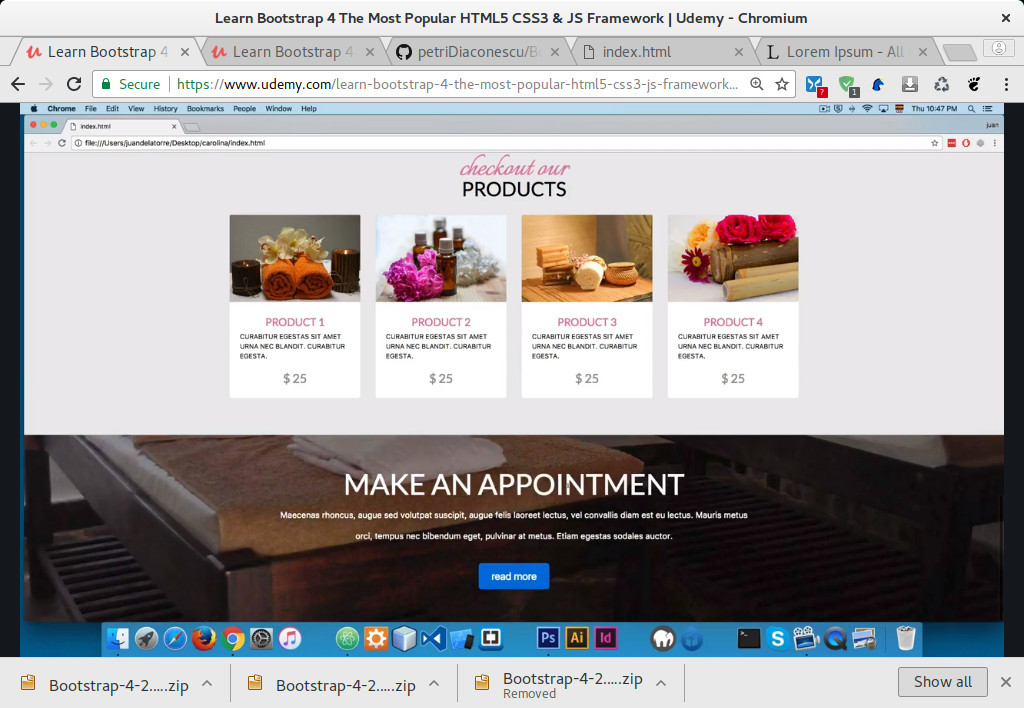
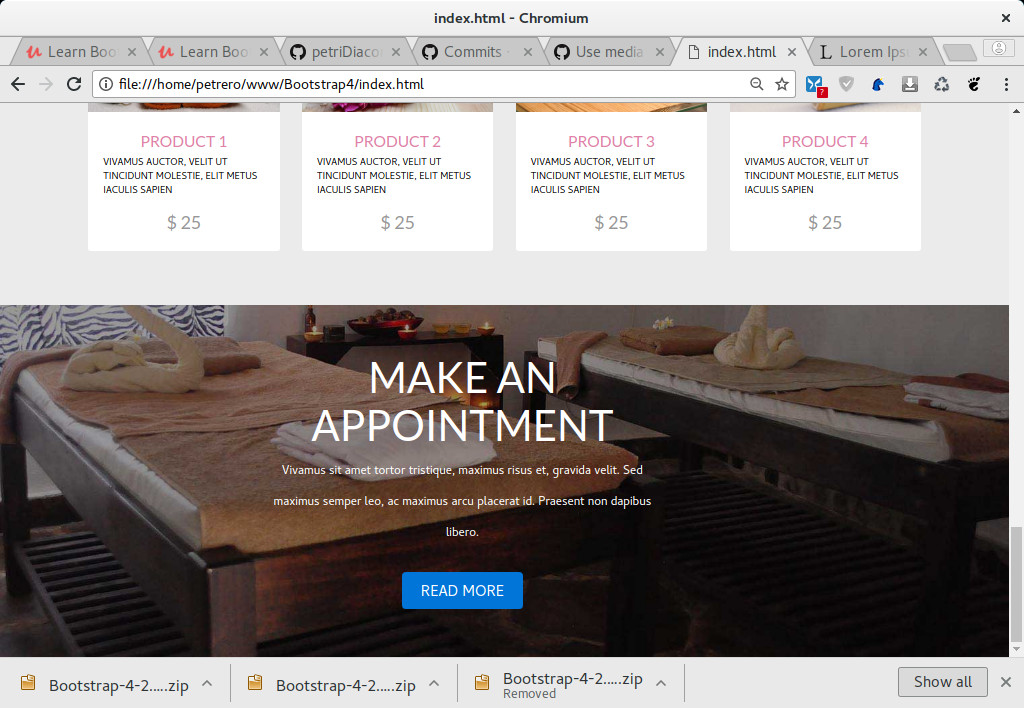
Style the link inside the appointment section. Add some hover effect to it.

diff --git a/index.html b/index.html
@@ -282,7 +282,7 @@
             Sed maximus semper leo, ac maximus arcu placerat id. Praesent non 
             dapibus libero.
           </p>
-          <a href="" class="btn btn-primary btn-lg mt-3">read more</a>
+          <a href="" class="btn btn-primary btn-lg mt-3 text-uppercase">read more</a>
         </div><!-- col-12 -->
       </div><!-- row -->
     </div><!-- appointment -->

diff --git a/css/styles.css b/css/styles.css
@@ -186,3 +186,15 @@ nav.main-nav .nav-link {
 .appointment p {
   line-height: 2.6rem;
 }
+
+.appointment .btn-primary {
+  background-color: #8ed3cc;
+  border: none;
+  border-radius: 0;
+  padding: 1rem 5rem;
+  font-family: 'Lato', sans-serif;
+}
+
+.appointment .btn-primary:hover {
+  background-color: #68beb5;
+}
